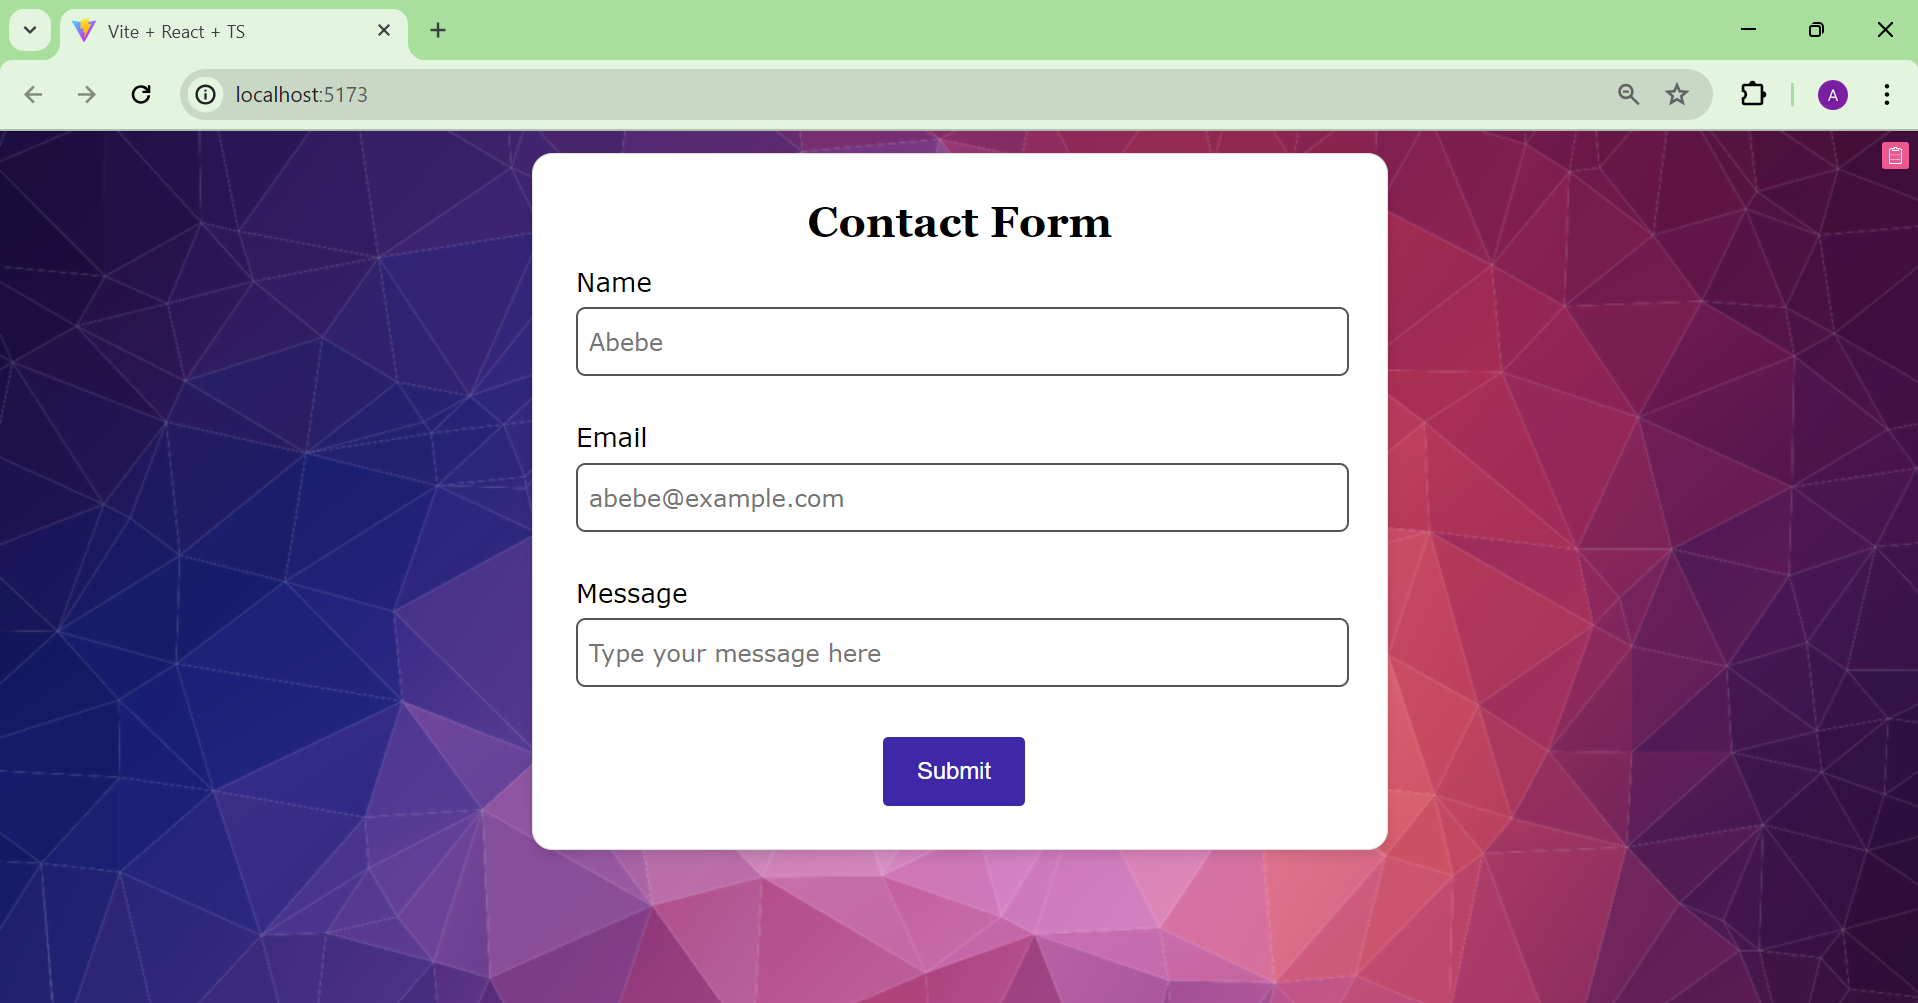
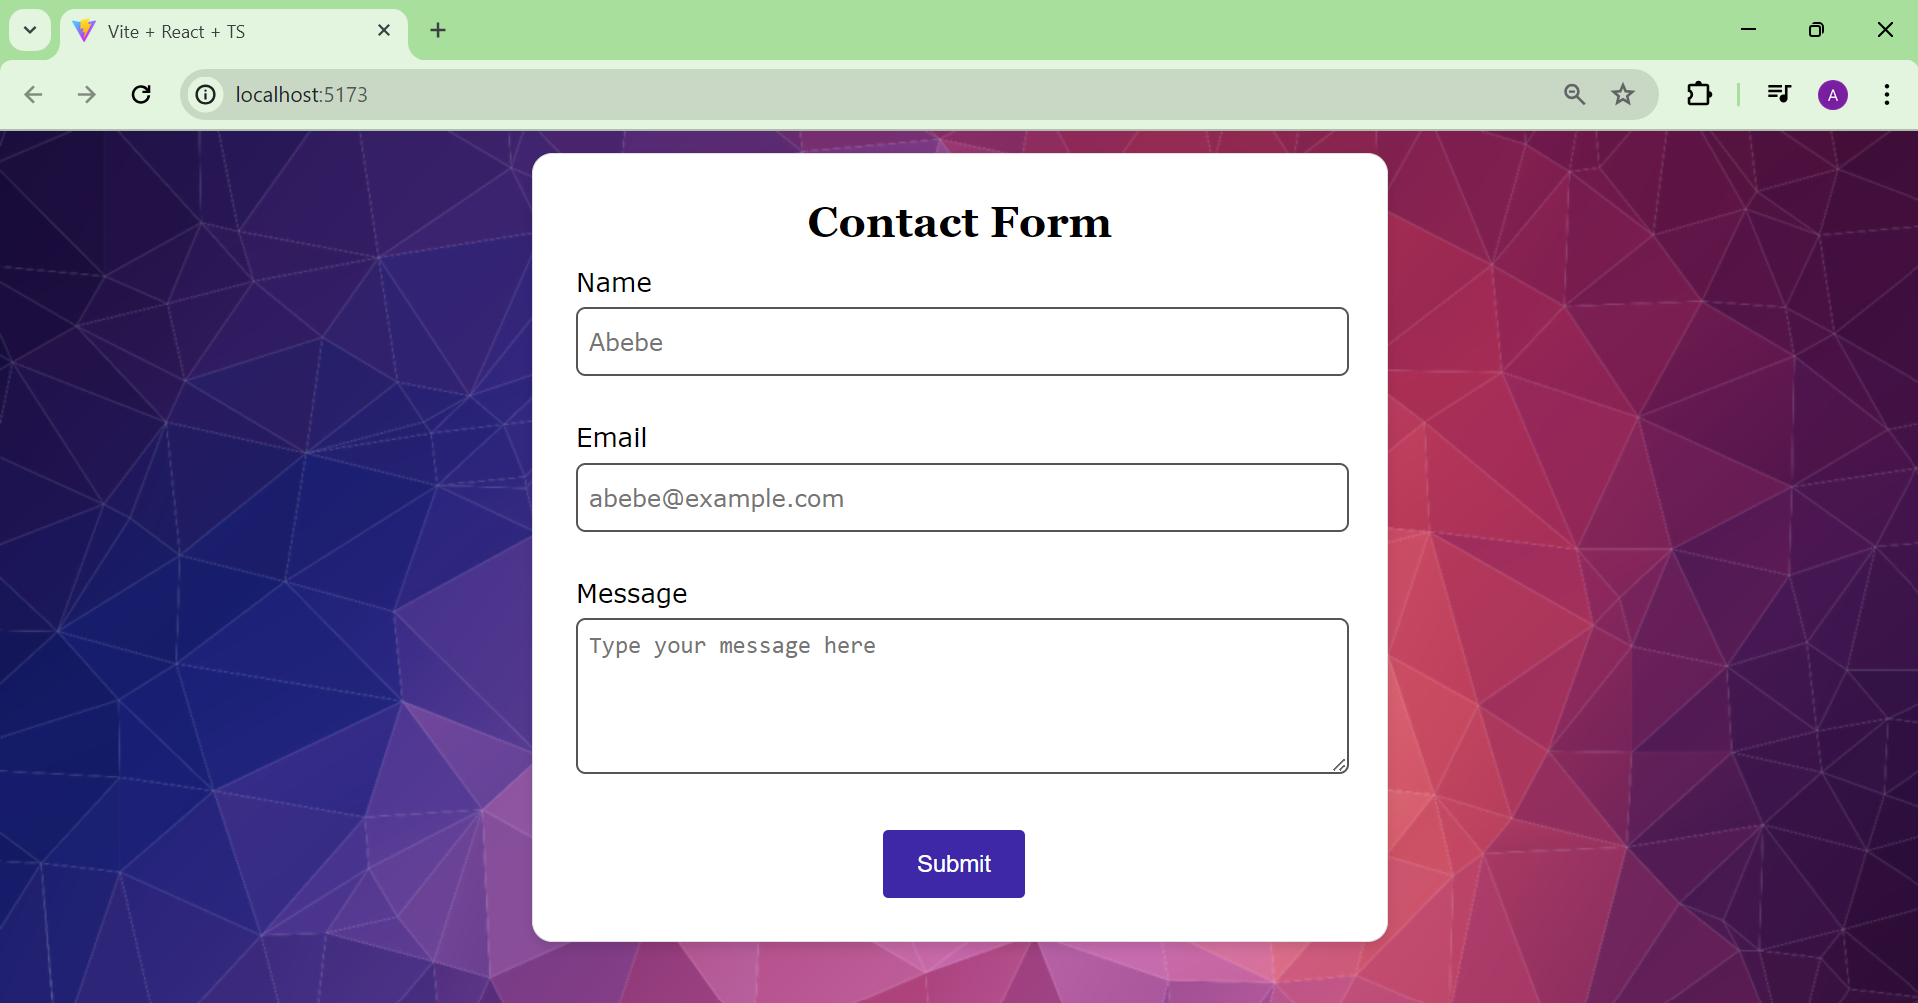
final touch

diff --git a/src/components/ContactForm.tsx b/src/components/ContactForm.tsx
@@ -42,7 +42,7 @@ export default function ContactForm(){
                 <div className="input_container">
                     <label htmlFor="message" >Message</label>
                     <br />
-                    <input placeholder="Type your message here" type="text" id="message" {...register('message', {
+                    <textarea placeholder="Type your message here" id="message" {...register('message', {
                         required: 'Message is required!'
                     })}/>
                     <p className="error">{errors.message?.message}</p>

diff --git a/src/styles/App.css b/src/styles/App.css
@@ -35,18 +35,21 @@ input,label{
 }
 
 
-input:focus {
+input:focus, textarea:focus {
   border-color: #007bff;
   outline: none;
 }
 
-input {
+input,textarea {
   margin-top: 7px;
   width: 100%;
   padding: 0.5rem;
   font-size: 1.1rem;
   border-radius: 7px;
   border: 2px solid rgb(85, 85, 85);
+}
+textarea{
+  height: 6rem;
 }
 button {
   padding: 15px 25px;
